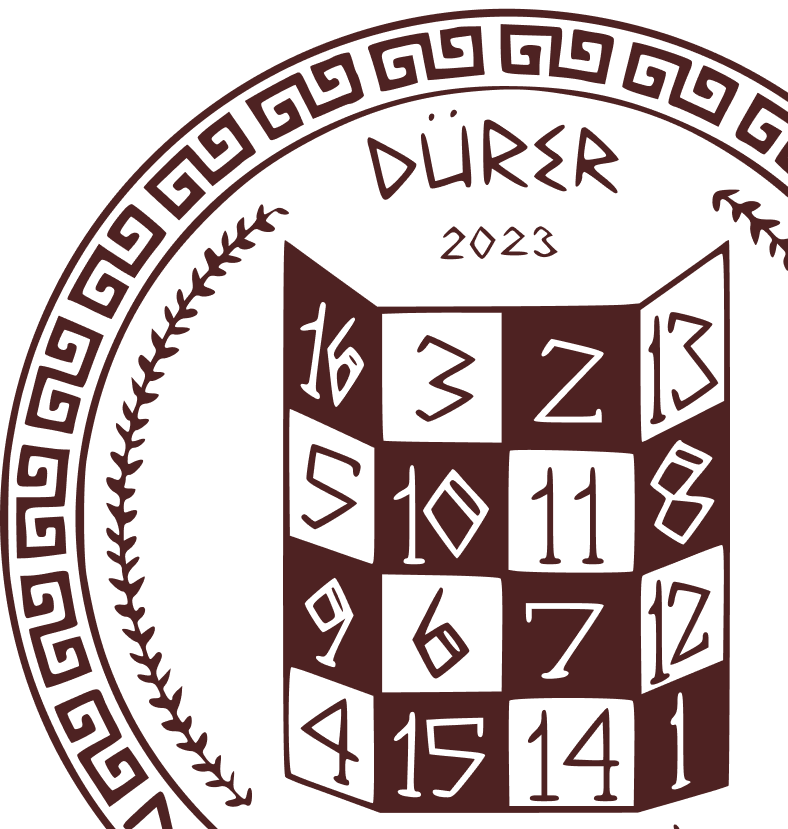
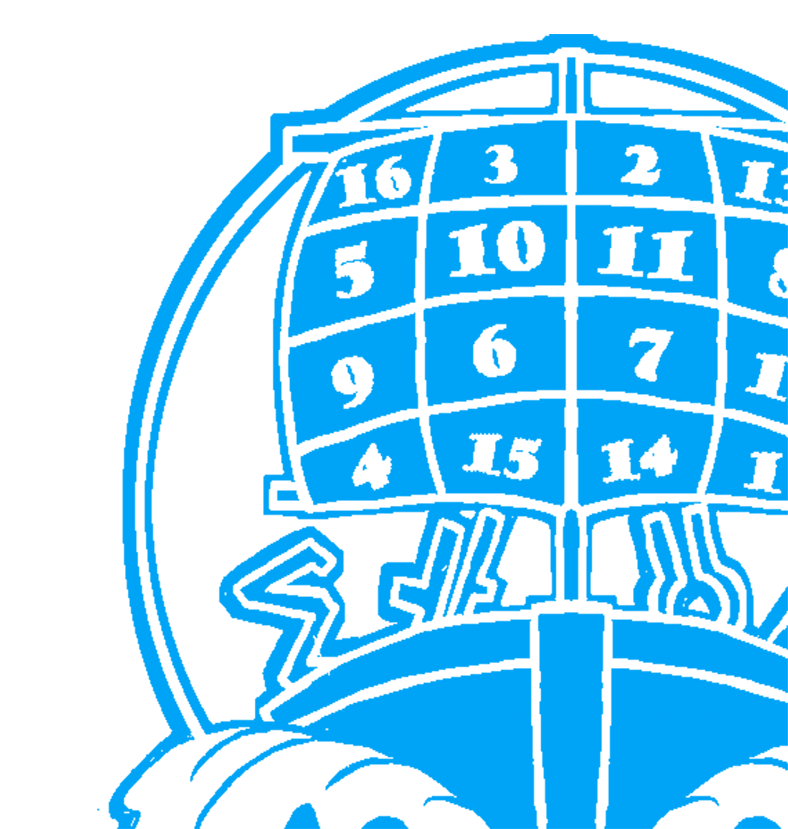
Update theme (#72)
* feat: update theme
image is a bit scuffed tough

* chore: update login text

diff --git a/src/client/text-constants.ts b/src/client/text-constants.ts
@@ -75,7 +75,7 @@ export const dictionary = {
     greeting: "Kedves Versenyző!",
     beforeTitle: "Üdvözlünk a",
     afterTitle: "online fordulójának felületén.",
-    loginInstraction: "Belépéshez nézd meg az emailjeidet, nyisd meg az ott található linket vagy üsd be a kódot ide:",
+    loginInstraction: "Belépéshez nézd meg az emailjeidet, és üsd be az ott található kódot ide:",
     fallback: "Ha nem találjátok az emailt, akkor írjatok nekünk a verseny [K] durerinfo [P] hu email címre.",
   },
   waitingRoom: {

diff --git a/src/client/components/theme.ts b/src/client/components/theme.ts
@@ -4,7 +4,8 @@ import { createTheme } from "@mui/material/styles";
 const theme = createTheme({
     palette: {
         primary: {
-            main: '#7B021A',
+            main: '#11009E',
+            //#0b5ac7
             contrastText: '#fff'
         },
         secondary: {
